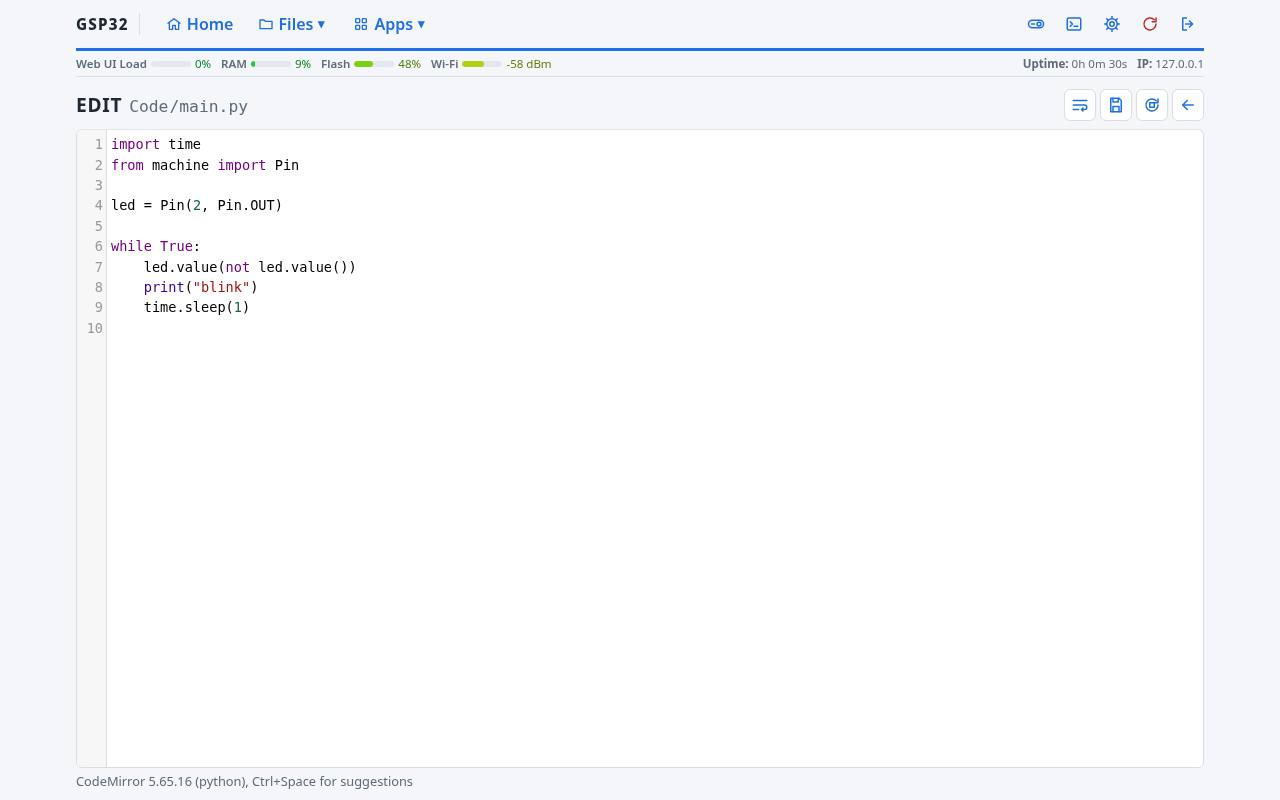
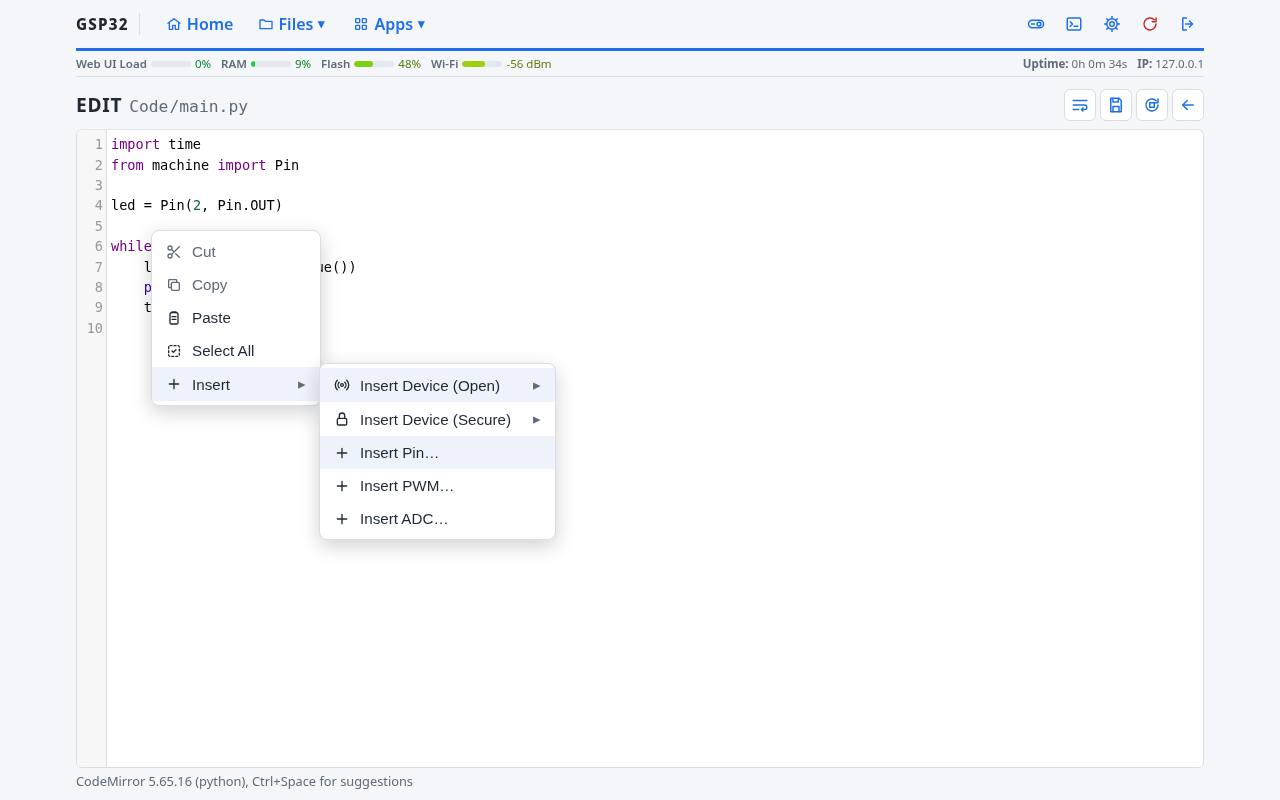
Check It Out: 8 slides; one Code Editor slide covers Save & Restart and Insert (shortcuts for frequently used tasks and talking to other devices); no Scheduler or Data Logger

Changed region(s): [[0.125, 0.4375, 0.4062, 0.5312], [0.25, 0.5625, 0.4375, 0.6875], [0.125, 0.2812, 0.25, 0.4062]]

diff --git a/tour.js b/tour.js
@@ -5,20 +5,16 @@ var TOUR = {
     ["Live graphs for Web UI Load, RAM, Flash and Wi-Fi", "A status bar on every page with uptime and the board's IP", "Your own pages with live values from main.py"]],
   files: ["Files Without Cables", "Manage everything on the board from the browser: upload by dragging files in, move them by dragging, rename, download and delete. No USB cable, no extra tools.",
     ["Drag and drop upload and moving", "Box selection and bulk Download or Delete", "Folders tree, locks and safe system files"]],
-  editor: ["Edit Code Right on the Board", "Open main.py or any file and edit it in a real code editor with line numbers, highlighting and autocomplete. Save & Restart runs your change at once, without rebooting the board, and an error takes you straight to its line.",
-    ["Python highlighting and autocomplete", "Save & Restart (Ctrl-S) without a reboot", "Errors shown with the line they came from"]],
-  wizards: ["Insert Code With a Few Clicks", "Right-click in the editor and pick Insert. Insert Device lists the GSP32 devices nearby, even with Discoverable off on yours, and adds the GSPNOW code to message them. Secure pairing asks the other device to accept, then encrypts every message.",
-    ["Insert Device: Open, or Secure with pairing and encryption", "Insert Pin, Insert PWM and Insert ADC", "Imports added at the top of the file"]],
-  pwm: ["Wizards That Know the Pins", "The Pin, PWM and ADC wizards ask a few questions and insert ready-to-run code. They warn about boot and USB console pins and refuse pins that can't do the job.",
-    ["PWM presets for an LED, a servo or a buzzer", "ADC offers only the pins that work with Wi-Fi on, with the voltage each range reads", "Input-only pins refused for outputs"]],
+  editor: ["Edit Code Right on the Board", "Edit main.py or any file in a real code editor, then Save & Restart to run the change at once, without a reboot. Right-click and pick Insert for shortcuts for frequently used tasks and talking to other devices.",
+    ["Save & Restart (Ctrl-S), with errors shown on their line", "Shortcuts for Frequently Used Tasks: Insert Pin, Insert PWM and Insert ADC", "Talking to Other Devices: Insert Device, with secure pairing and encryption"]],
   pins: ["See and Drive Every Pin", "The Pin Panel shows every GPIO as a card: its level, whether it's safe to use, and what main.py calls it. Drive a pin high or low with a click to test your wiring.",
     ["Live levels and ADC readings", "Safe, careful and taken pins color-coded", "Pins named after your main.py"]],
   console: ["A Console in Your Browser", "Watch print() output and errors from main.py as they happen, and type Python straight into the board. It's the serial console, without the serial cable.",
     ["Live output from main.py", "Run Python lines on the board", "The last error kept across reboots"]],
   libraries: ["Add Libraries in Seconds", "Search the MicroPython package index and install packages into /lib with one click. Your browser fetches them, so the board stays fast."],
   backup: ["Back Up and Restore", "Download your whole board as one file, and put it back on this board or a new one whenever you need to."],
-  settings: ["Make It Yours", "The Network card keeps the device name, Wi-Fi, password and Discoverable together. Set the clock and time zone, and switch apps like Scheduler, Data Logger, Libraries and Backup on or off.",
-    ["Network card: device name and .local address, Wi-Fi, password, mDNS, Discoverable", "Clock with NTP and time zone", "Apps you can switch on and off"]]
+  settings: ["Make It Yours", "The Network card keeps the device name, Wi-Fi, password and Discoverable together. Set the clock and time zone, and switch optional apps like Libraries and Backup on or off.",
+    ["Network card: device name and .local address, Wi-Fi, password, mDNS, Discoverable", "Clock with NTP and time zone", "Optional apps you can switch on and off"]]
 };
 
 (function () {

diff --git a/tests/test_v75.py b/tests/test_v75.py
@@ -38,10 +38,10 @@ with sync_playwright() as p:
         check(tag + ": no Peer Manager note", "Peer Manager" not in pg.inner_text("body") and pg.locator(".release-note").count() == 0)
         pg.locator("#tour").scroll_into_view_if_needed(); pg.wait_for_timeout(800)
         titles = pg.locator(".tour-thumb span").all_inner_texts()
-        check(tag + ": Check It Out slides", "Insert Wizards" in titles and "Pin, PWM and ADC Wizards" in titles and len(titles) == 10, str(titles))
-        pg.screenshot(path=SHOTS + "/check-it-out-" + tag + ".png")
-        pg.click(".tour-thumb >> nth=3"); pg.wait_for_timeout(600)
-        pg.screenshot(path=SHOTS + "/tour-wizards-" + tag + ".png"); pg.keyboard.press("Escape"); pg.wait_for_timeout(300)
+        check(tag + ": Check It Out slides", "Code Editor" in titles and "Insert Wizards" not in titles and len(titles) == 8, str(titles))
+        pg.screenshot(path=SHOTS + "/tour8-check-it-out-" + tag + ".png")
+        pg.click(".tour-thumb >> nth=2"); pg.wait_for_timeout(600)
+        pg.screenshot(path=SHOTS + "/tour8-editor-" + tag + ".png"); pg.keyboard.press("Escape"); pg.wait_for_timeout(300)
         pg.evaluate("window.scrollTo(0, 0)")
         before = len(hits); connect(pg)
         check(tag + ": Get Started fetches versions.json again", len(hits) == before + 1, str(hits))
